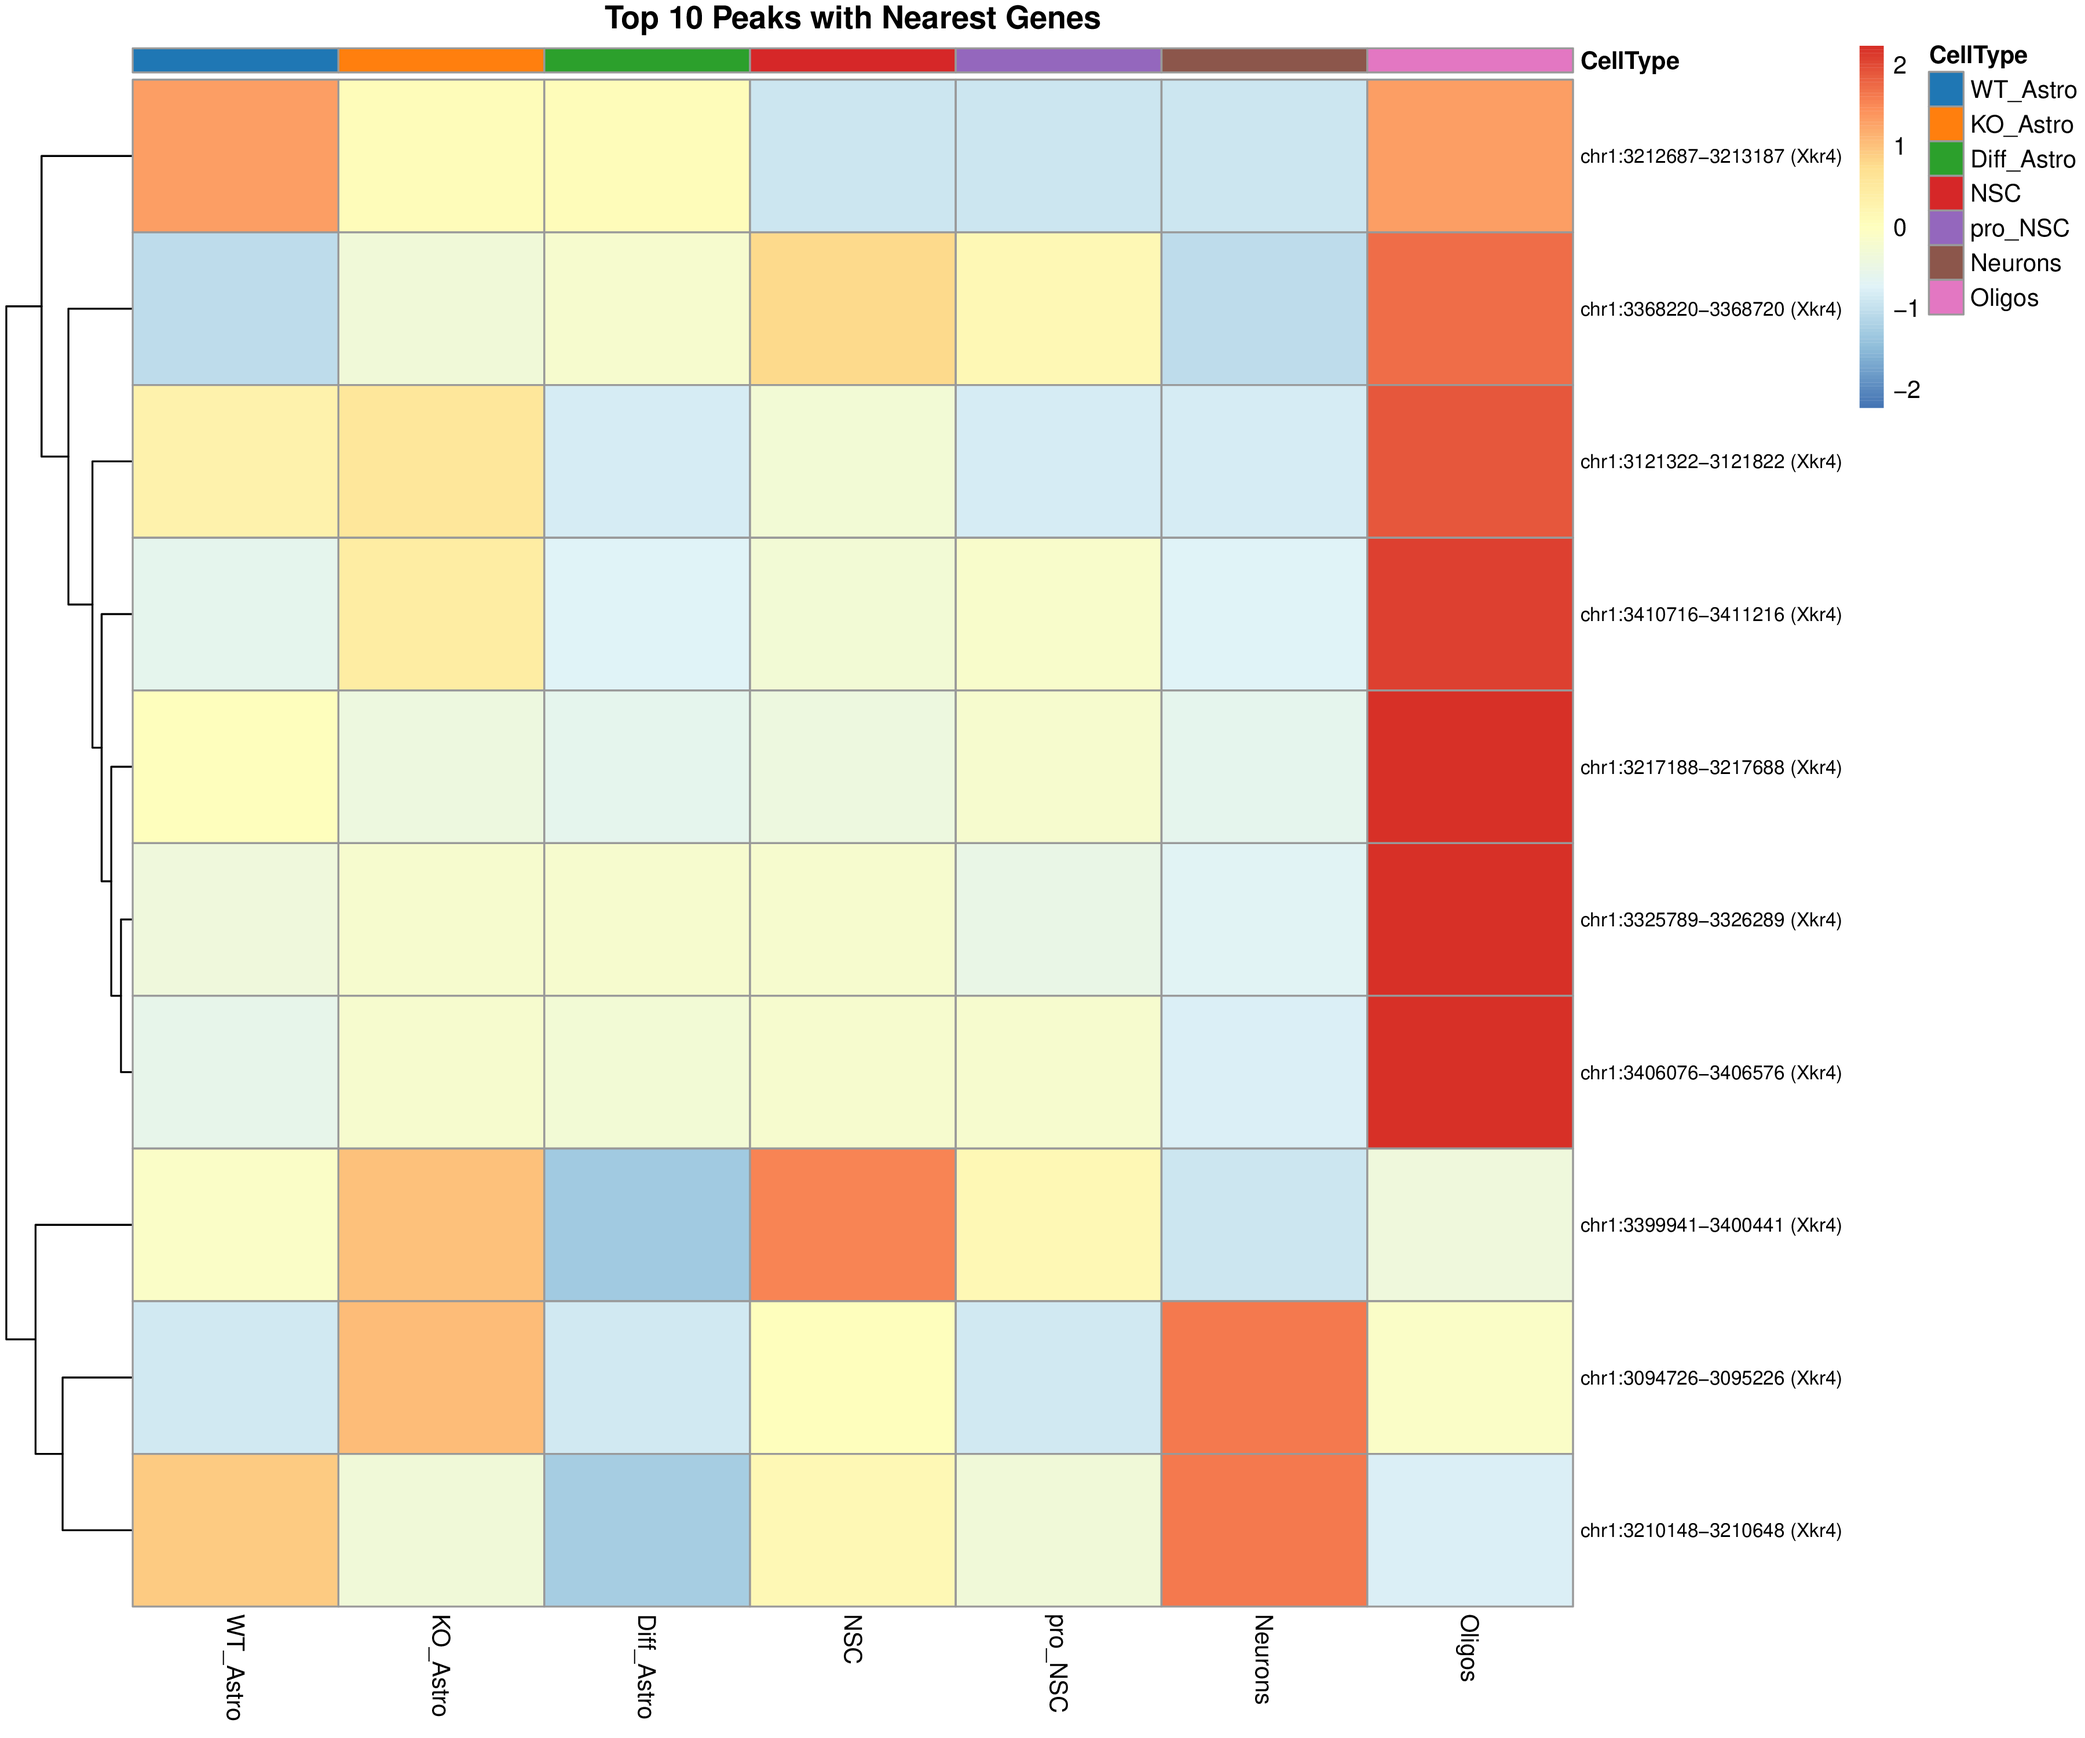
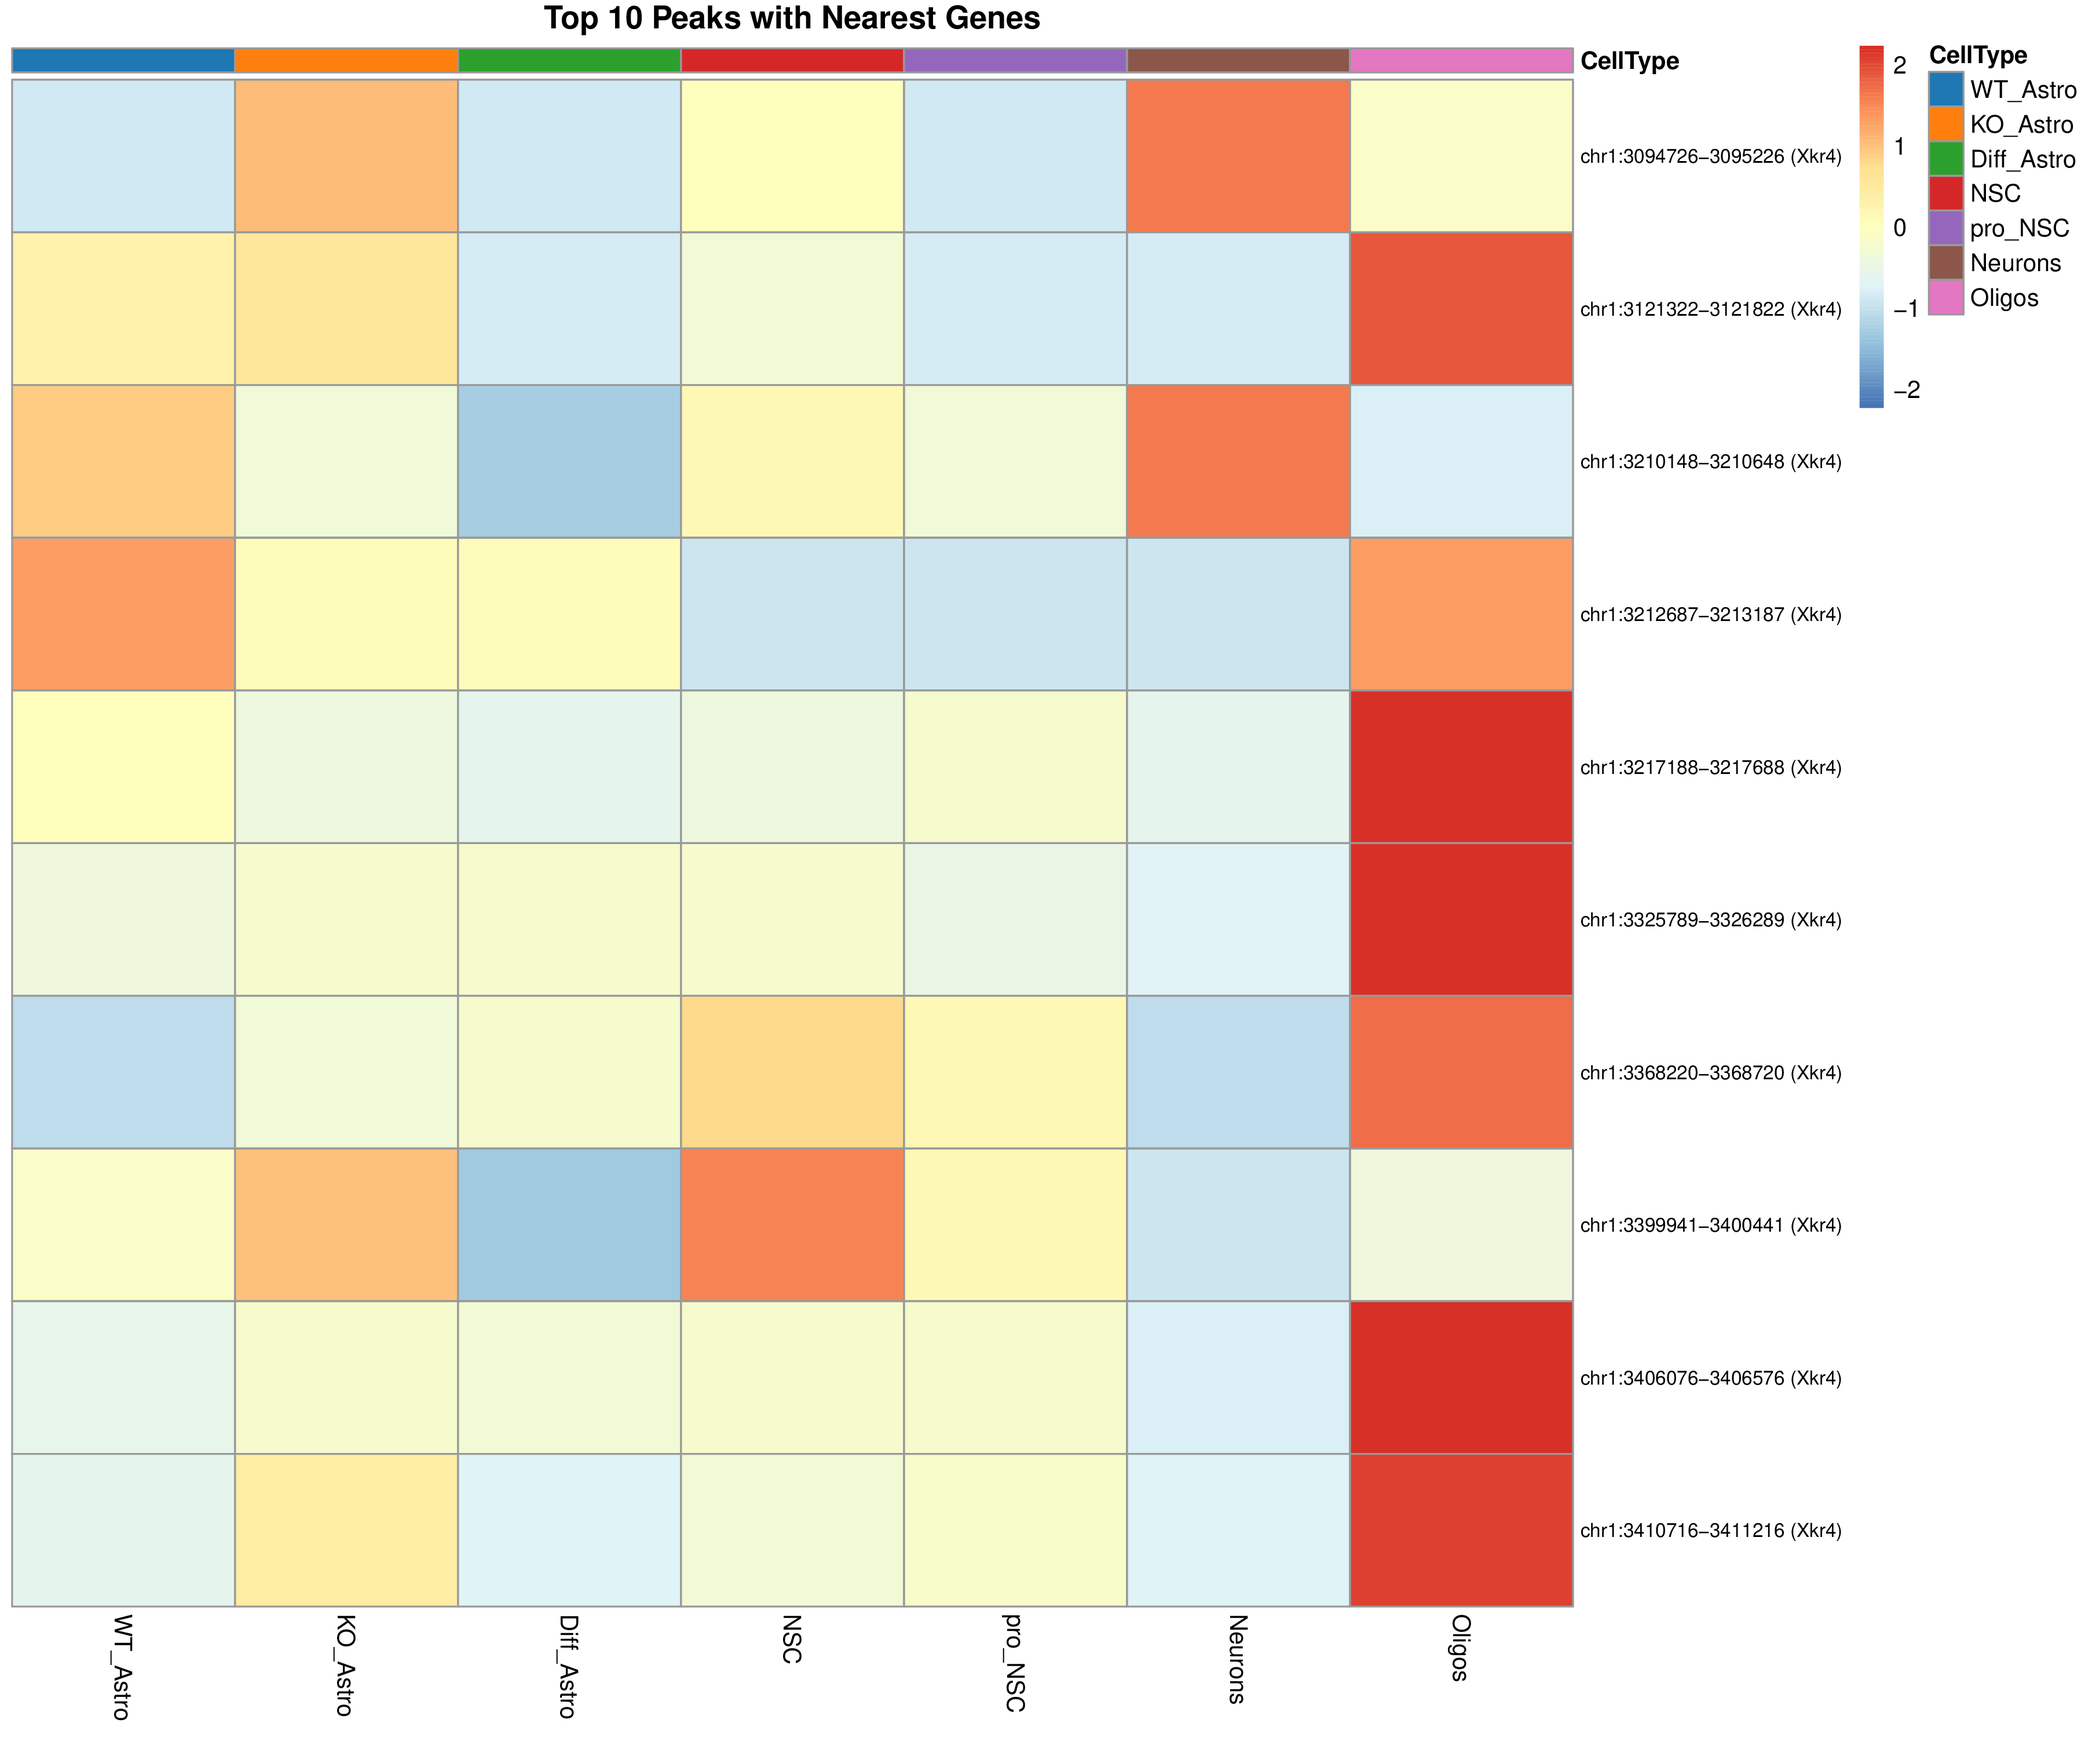
remove dendogram from heatmaps

diff --git a/README.md b/README.md
@@ -134,13 +134,12 @@ Cells were retained if they met the following thresholds: TSS enrichment ≥ 10,
 
 ### Marker Peaks 
 
-![](figures/1_peak_heatmap.png?v=1)
+![](figures/1_peak_heatmap.png?v=2)
 	
 ### Motif Enrichment 
 
-![](figures/2_motif_heatmap.png?v=1)
+![](figures/2_motif_heatmap.png?v=2)
 
 ### TF activity 
 
-![](figures/3_tf_activity_heatmap.png?v=1)
-
+![](figures/3_tf_activity_heatmap.png?v=2)
